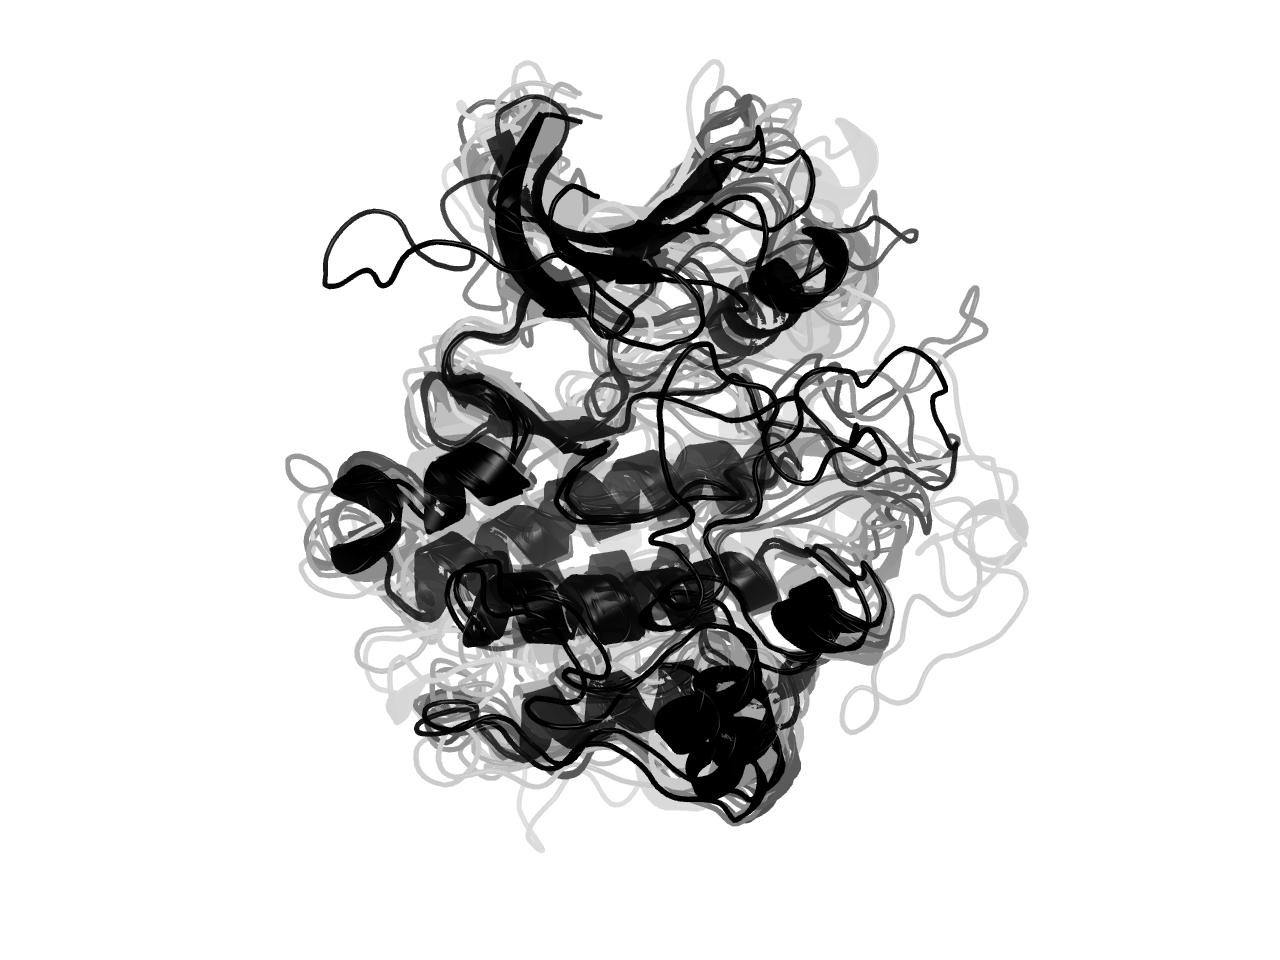
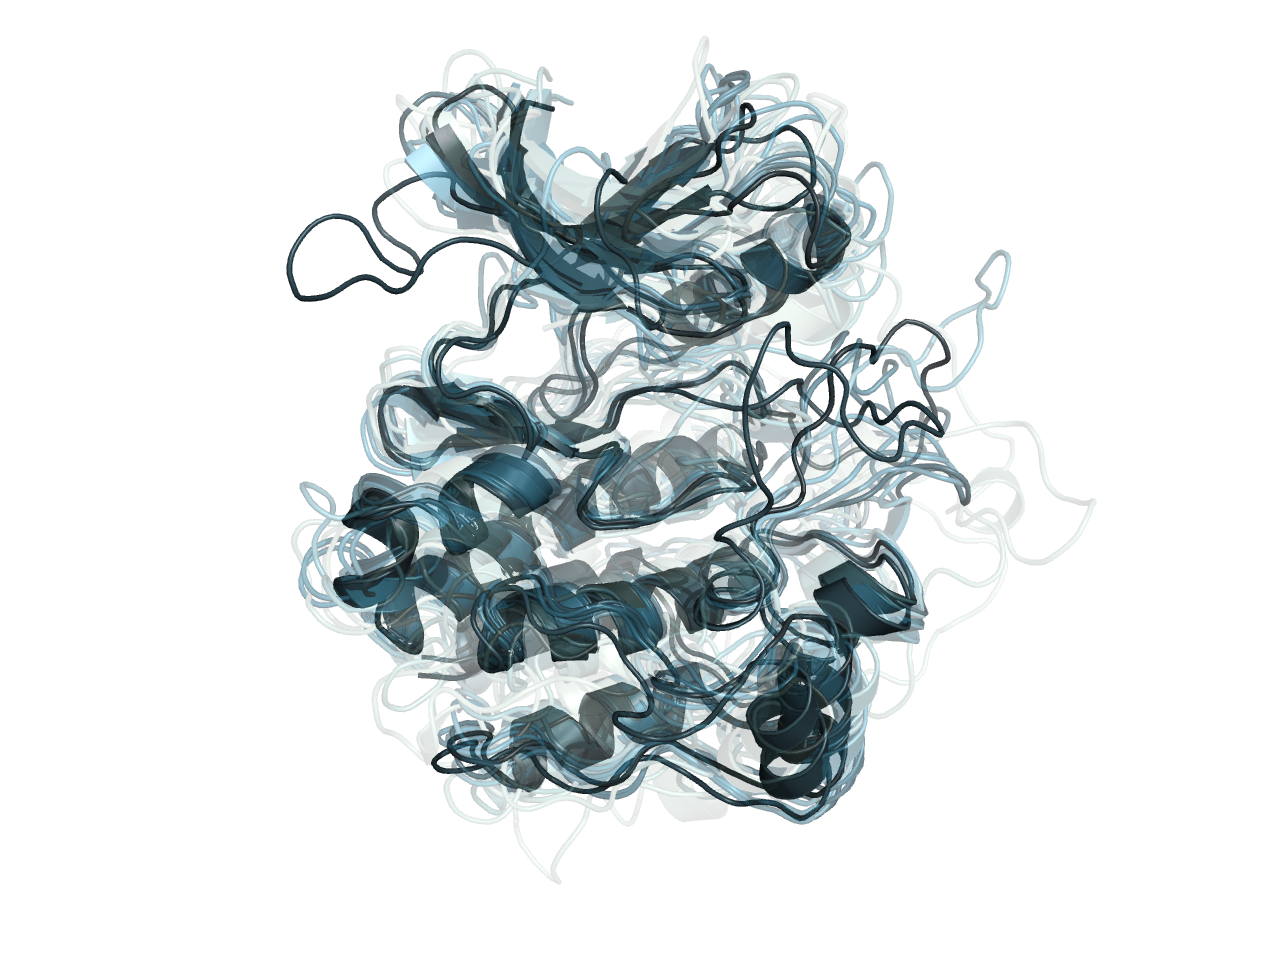
Superposition fig

Changed region(s): [[0.2188, 0.0312, 0.8438, 0.9062]]

diff --git a/figures/superposition-src_abl/genmodels.py b/figures/superposition-src_abl/genmodels.py
@@ -41,9 +41,9 @@ for m,f in enumerate(model_indices):
 transparency_floats = [(1. - seqid*0.01) for seqid in seqids]
 transparency_text = '\n'.join(['set cartoon_transparency, {0}, {1}'.format(transparency_floats[m], m) for m in range(nmodels)])
 
-palette = sns.color_palette('deep', nmodels)
-set_color_text = '\n'.join(['set_color {0}= [{1}, {2}, {3}]'.format(m, palette[m][0], palette[m][1], palette[m][2]) for m in range(nmodels)])
-color_text = '\n'.join(['color {0}, {0}'.format(m) for m in range(nmodels)])
+palette = sns.color_palette('GnBu_d', nmodels)
+set_color_text = '\n'.join(['set_color color{0}, [{1}, {2}, {3}]'.format(m, palette[m][0], palette[m][1], palette[m][2]) for m in range(nmodels)])
+color_text = '\n'.join(['color color{0}, {0}'.format(m) for m in range(nmodels)])
 
 renderscripttext = """\
 bg white
@@ -64,7 +64,7 @@ show cartoon
 
 {2}
 
-color black
+# color black
 
 zoom all
 
